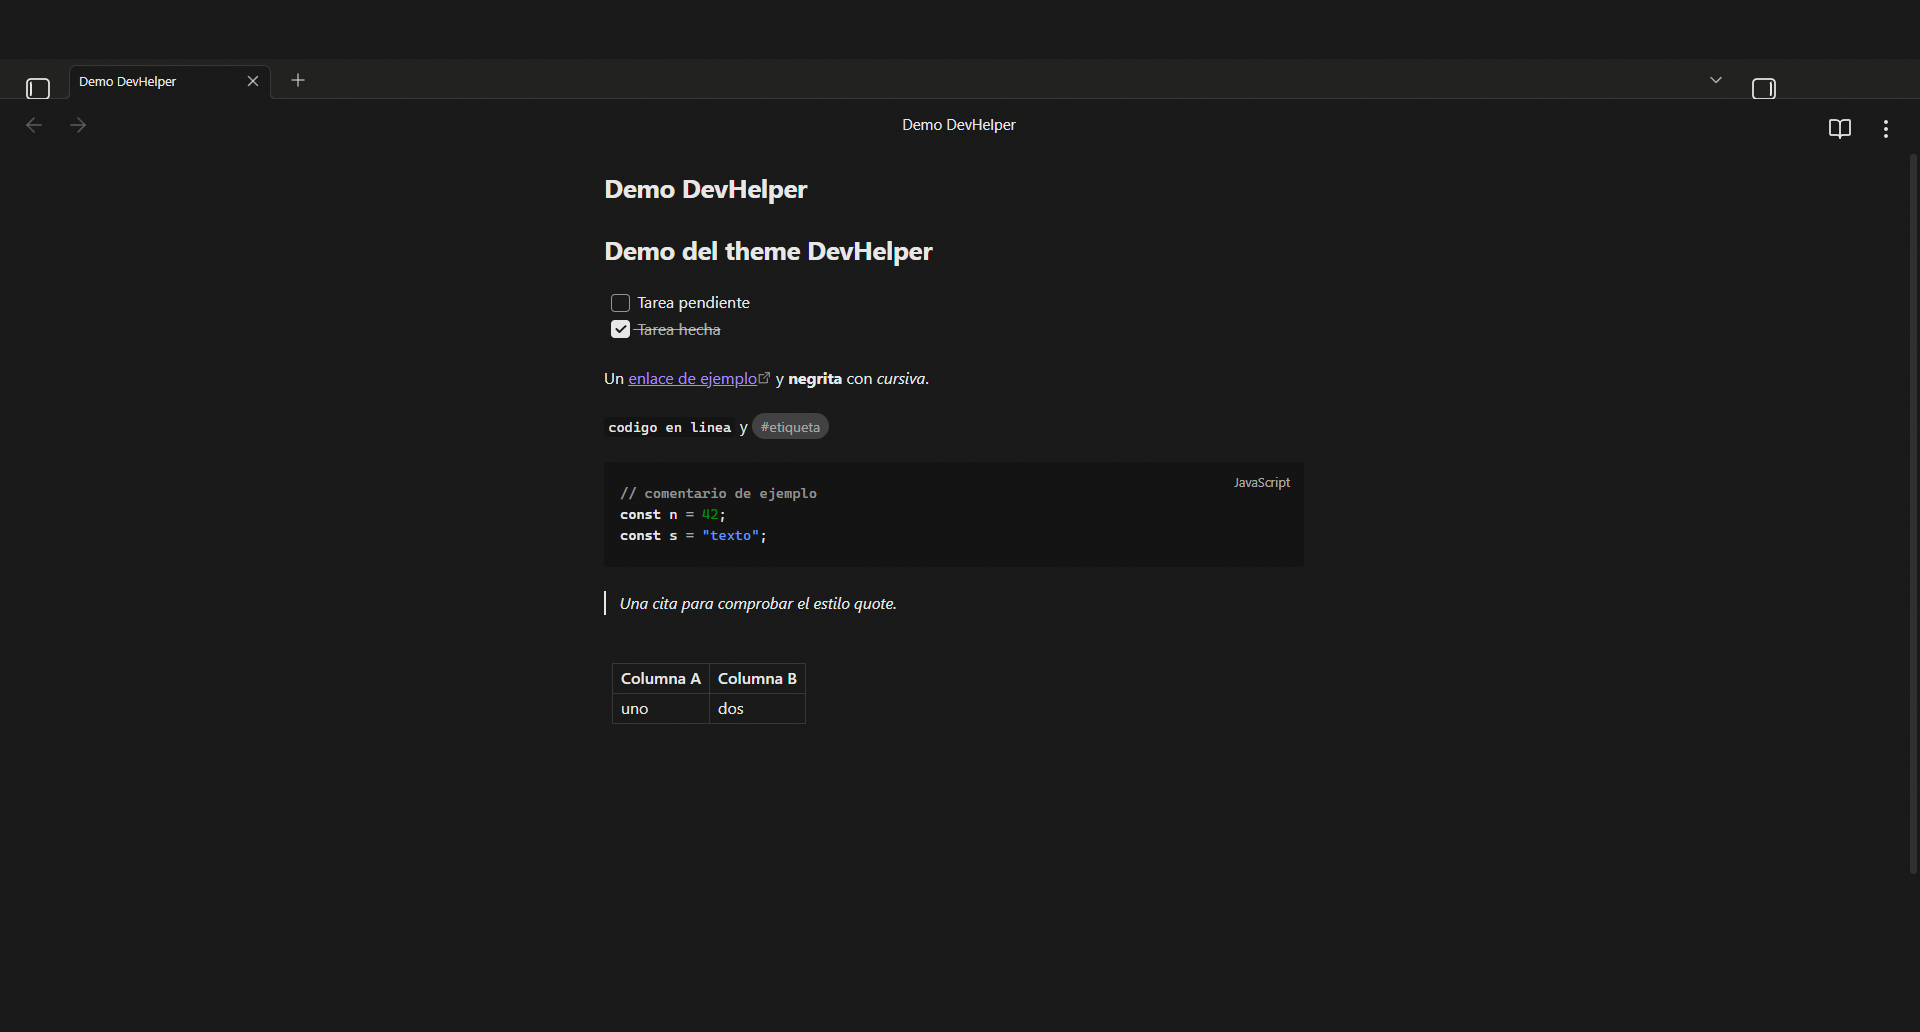
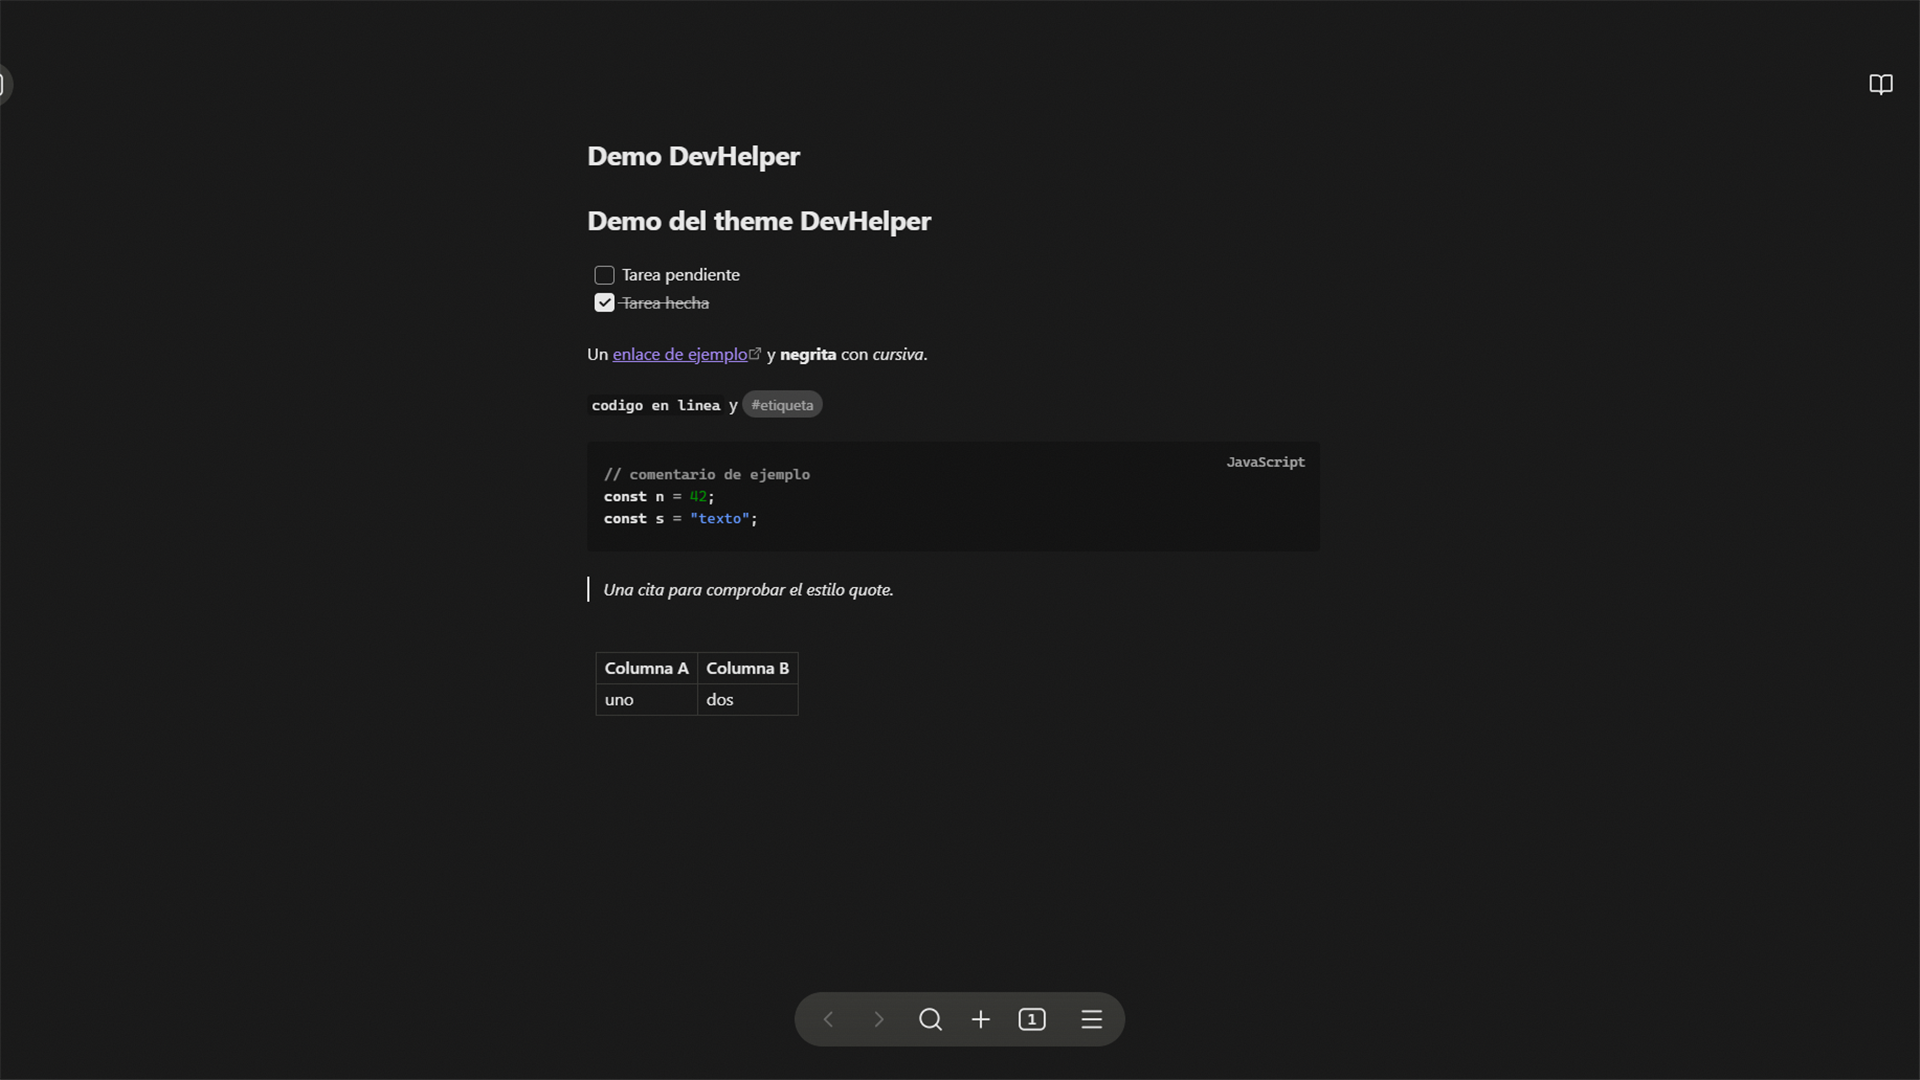
fix: recapturar la galería en 16:9 y documentar la vista móvil

diff --git a/README.md b/README.md
@@ -29,7 +29,10 @@ la comunidad** e instálalo desde ahí.
 
 - `screenshots/screenshot.png` — miniatura 16:9 (512×288).
 - `screenshots/screenshot-editor.png` — editor con sidebar en escritorio.
-- `screenshots/screenshot-mobile.png` — vista con emulación móvil.
+- `screenshots/screenshot-mobile.png` — vista con emulación móvil a ancho de
+  escritorio (1920×1080); la barra inferior móvil es visible y usa los estilos
+  del theme. Verificada también a ancho estrecho real (414 px): la toolbar se
+  muestra con fondo `--background-secondary` y objetivos de 44 px.
 
 ## Compatibilidad
 
